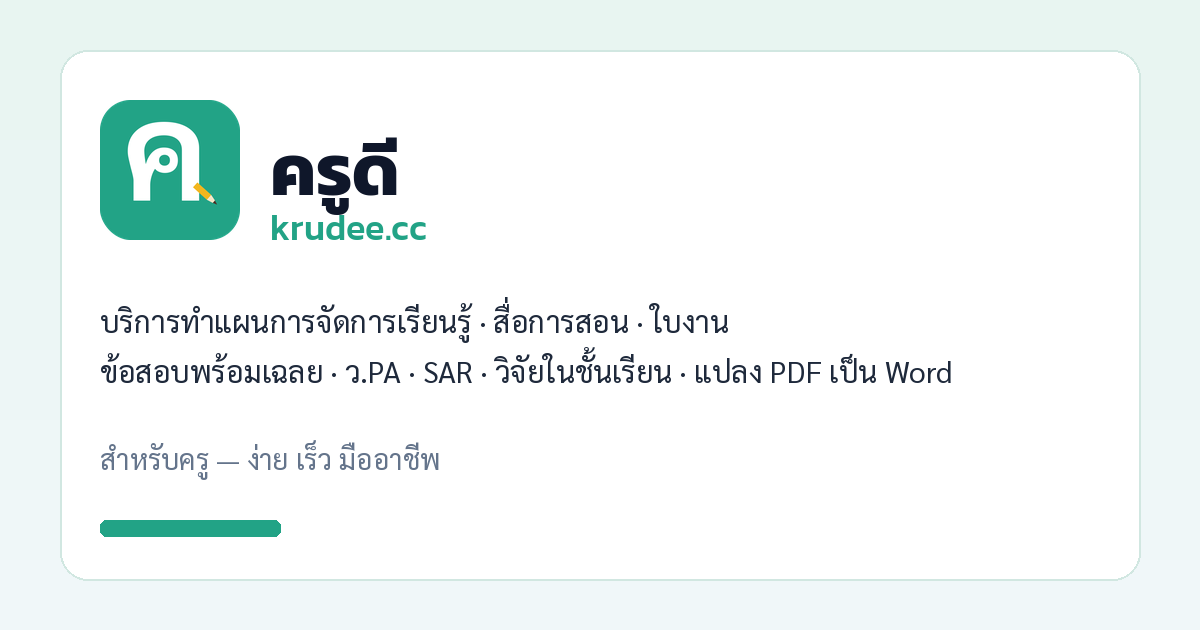
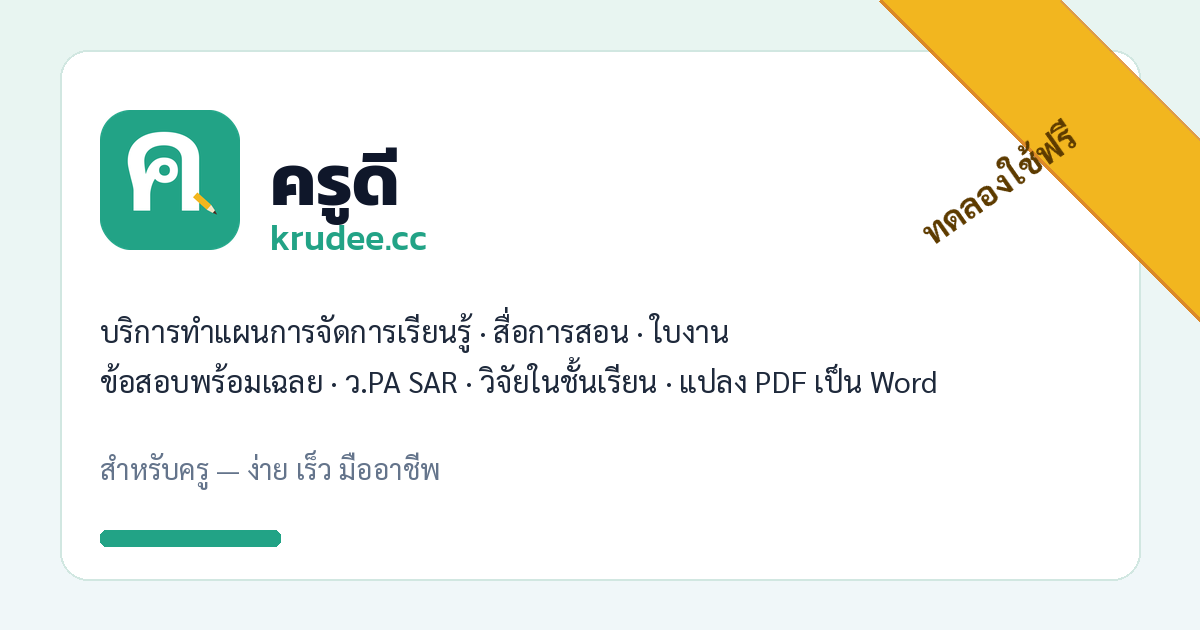
Highlight ทดลองใช้ฟรี on homepage and OG share image
Add a warm yellow free-trial pill above the home headline, small
ฟรี corner sashes on service tiles, update the meta description, and
regenerate og-image with a diagonal free ribbon (cache-busted ?v=2).
Display only — no pricing or points changes.

diff --git a/static/style.css b/static/style.css
@@ -294,3 +294,18 @@ dl.meta dt{color:var(--mut)}dl.meta dd{margin:0}
 
 .nav-tabs a .tab-ic.tab-img{display:grid;place-items:center;width:28px;height:28px}
 .nav-tabs a .tab-ic.tab-img img{width:28px;height:28px;display:block;object-fit:contain}
+
+/* —— Free trial promo —— */
+.home-top{position:relative}
+.free-pill{display:inline-flex;align-items:center;gap:8px;margin:0 0 12px;padding:7px 16px 7px 12px;
+  background:linear-gradient(135deg,#F2B61F 0%,#F59E0B 100%);color:#5B3A00;font-weight:800;font-size:.92rem;
+  border-radius:999px;box-shadow:0 4px 14px rgba(242,182,31,.35);letter-spacing:.01em}
+.free-pill-dot{width:8px;height:8px;border-radius:50%;background:#fff;box-shadow:0 0 0 3px rgba(255,255,255,.35)}
+.tile{position:relative;overflow:hidden}
+.tile-free{position:absolute;top:10px;right:-22px;width:88px;text-align:center;
+  background:linear-gradient(135deg,#F2B61F,#F97316);color:#5B3A00;font-weight:800;font-size:.68rem;
+  padding:3px 0;transform:rotate(35deg);box-shadow:0 2px 6px rgba(0,0,0,.12);letter-spacing:.04em;pointer-events:none;z-index:2}
+@media(max-width:640px){
+  .tile-free{top:8px;right:-26px;width:80px;font-size:.62rem;padding:2px 0}
+  .free-pill{font-size:.88rem;padding:6px 14px 6px 10px}
+}

diff --git a/templates/home.html b/templates/home.html
@@ -30,6 +30,7 @@
 {% endblock %}
 {% block content %}
 <section class="home-top">
+  <p class="free-pill" role="status"><span class="free-pill-dot" aria-hidden="true"></span>ทดลองใช้ฟรี</p>
   <h1>ครูดี ช่วยงานครู</h1>
   <p class="home-sub">เลือกบริการด้านล่าง — สั้น ๆ ชัด ๆ</p>
 </section>
@@ -46,6 +47,7 @@
   {% for group, services in groups %}
     {% set ikey = brand.group_img_key(group) %}
     <a class="tile tint-{{ ikey }}" href="{{ url_for('group_page', group_name=group) }}">
+      <span class="tile-free" aria-hidden="true">ฟรี</span>
       <span class="tile-icon img" aria-hidden="true">{{ brand.group_img_html(group, 'gimg', 72)|safe }}</span>
       <span class="tile-label">{{ short.get(group, group) }}</span>
       <span class="tile-meta">{{ services|length }} บริการ</span>

diff --git a/templates/base.html b/templates/base.html
@@ -29,7 +29,7 @@
 <link rel="preconnect" href="https://fonts.googleapis.com">
 <link rel="preconnect" href="https://fonts.gstatic.com" crossorigin>
 <link href="https://fonts.googleapis.com/css2?family=Sarabun:wght@400;500;600;700&display=swap" rel="stylesheet">
-<link rel="stylesheet" href="{{ url_for('static', filename='style.css') }}?v=10">
+<link rel="stylesheet" href="{{ url_for('static', filename='style.css') }}?v=11">
 {% block head_extra %}{% endblock %}
 {% block jsonld %}{% endblock %}
 </head>

diff --git a/brand.py b/brand.py
@@ -9,7 +9,7 @@ TEAL_SOFT = "#E6F6F2"
 
 SITE_DESC = (
     "ครูดี (krudee.cc) บริการทำแผนการจัดการเรียนรู้ แผนการสอน สื่อการสอน "
-    "ใบงาน ข้อสอบพร้อมเฉลย ว.PA SAR วิจัยในชั้นเรียน และแปลง PDF เป็น Word ภาษาไทย สำหรับครู"
+    "ใบงาน ข้อสอบพร้อมเฉลย ว.PA SAR วิจัยในชั้นเรียน และแปลง PDF เป็น Word ภาษาไทย สำหรับครู — ทดลองใช้ฟรี"
 )
 
 # Inline SVG icons (24x24 viewBox) for groups — simple line style
@@ -94,5 +94,5 @@ def page_meta(title=None, description=None, path="/", og_type="website"):
         "og_type": og_type,
         "site_name": SITE_NAME,
         "site_url": SITE_URL,
-        "og_image": SITE_URL + "/static/og-image.png",
+        "og_image": SITE_URL + "/static/og-image.png?v=2",
     }
